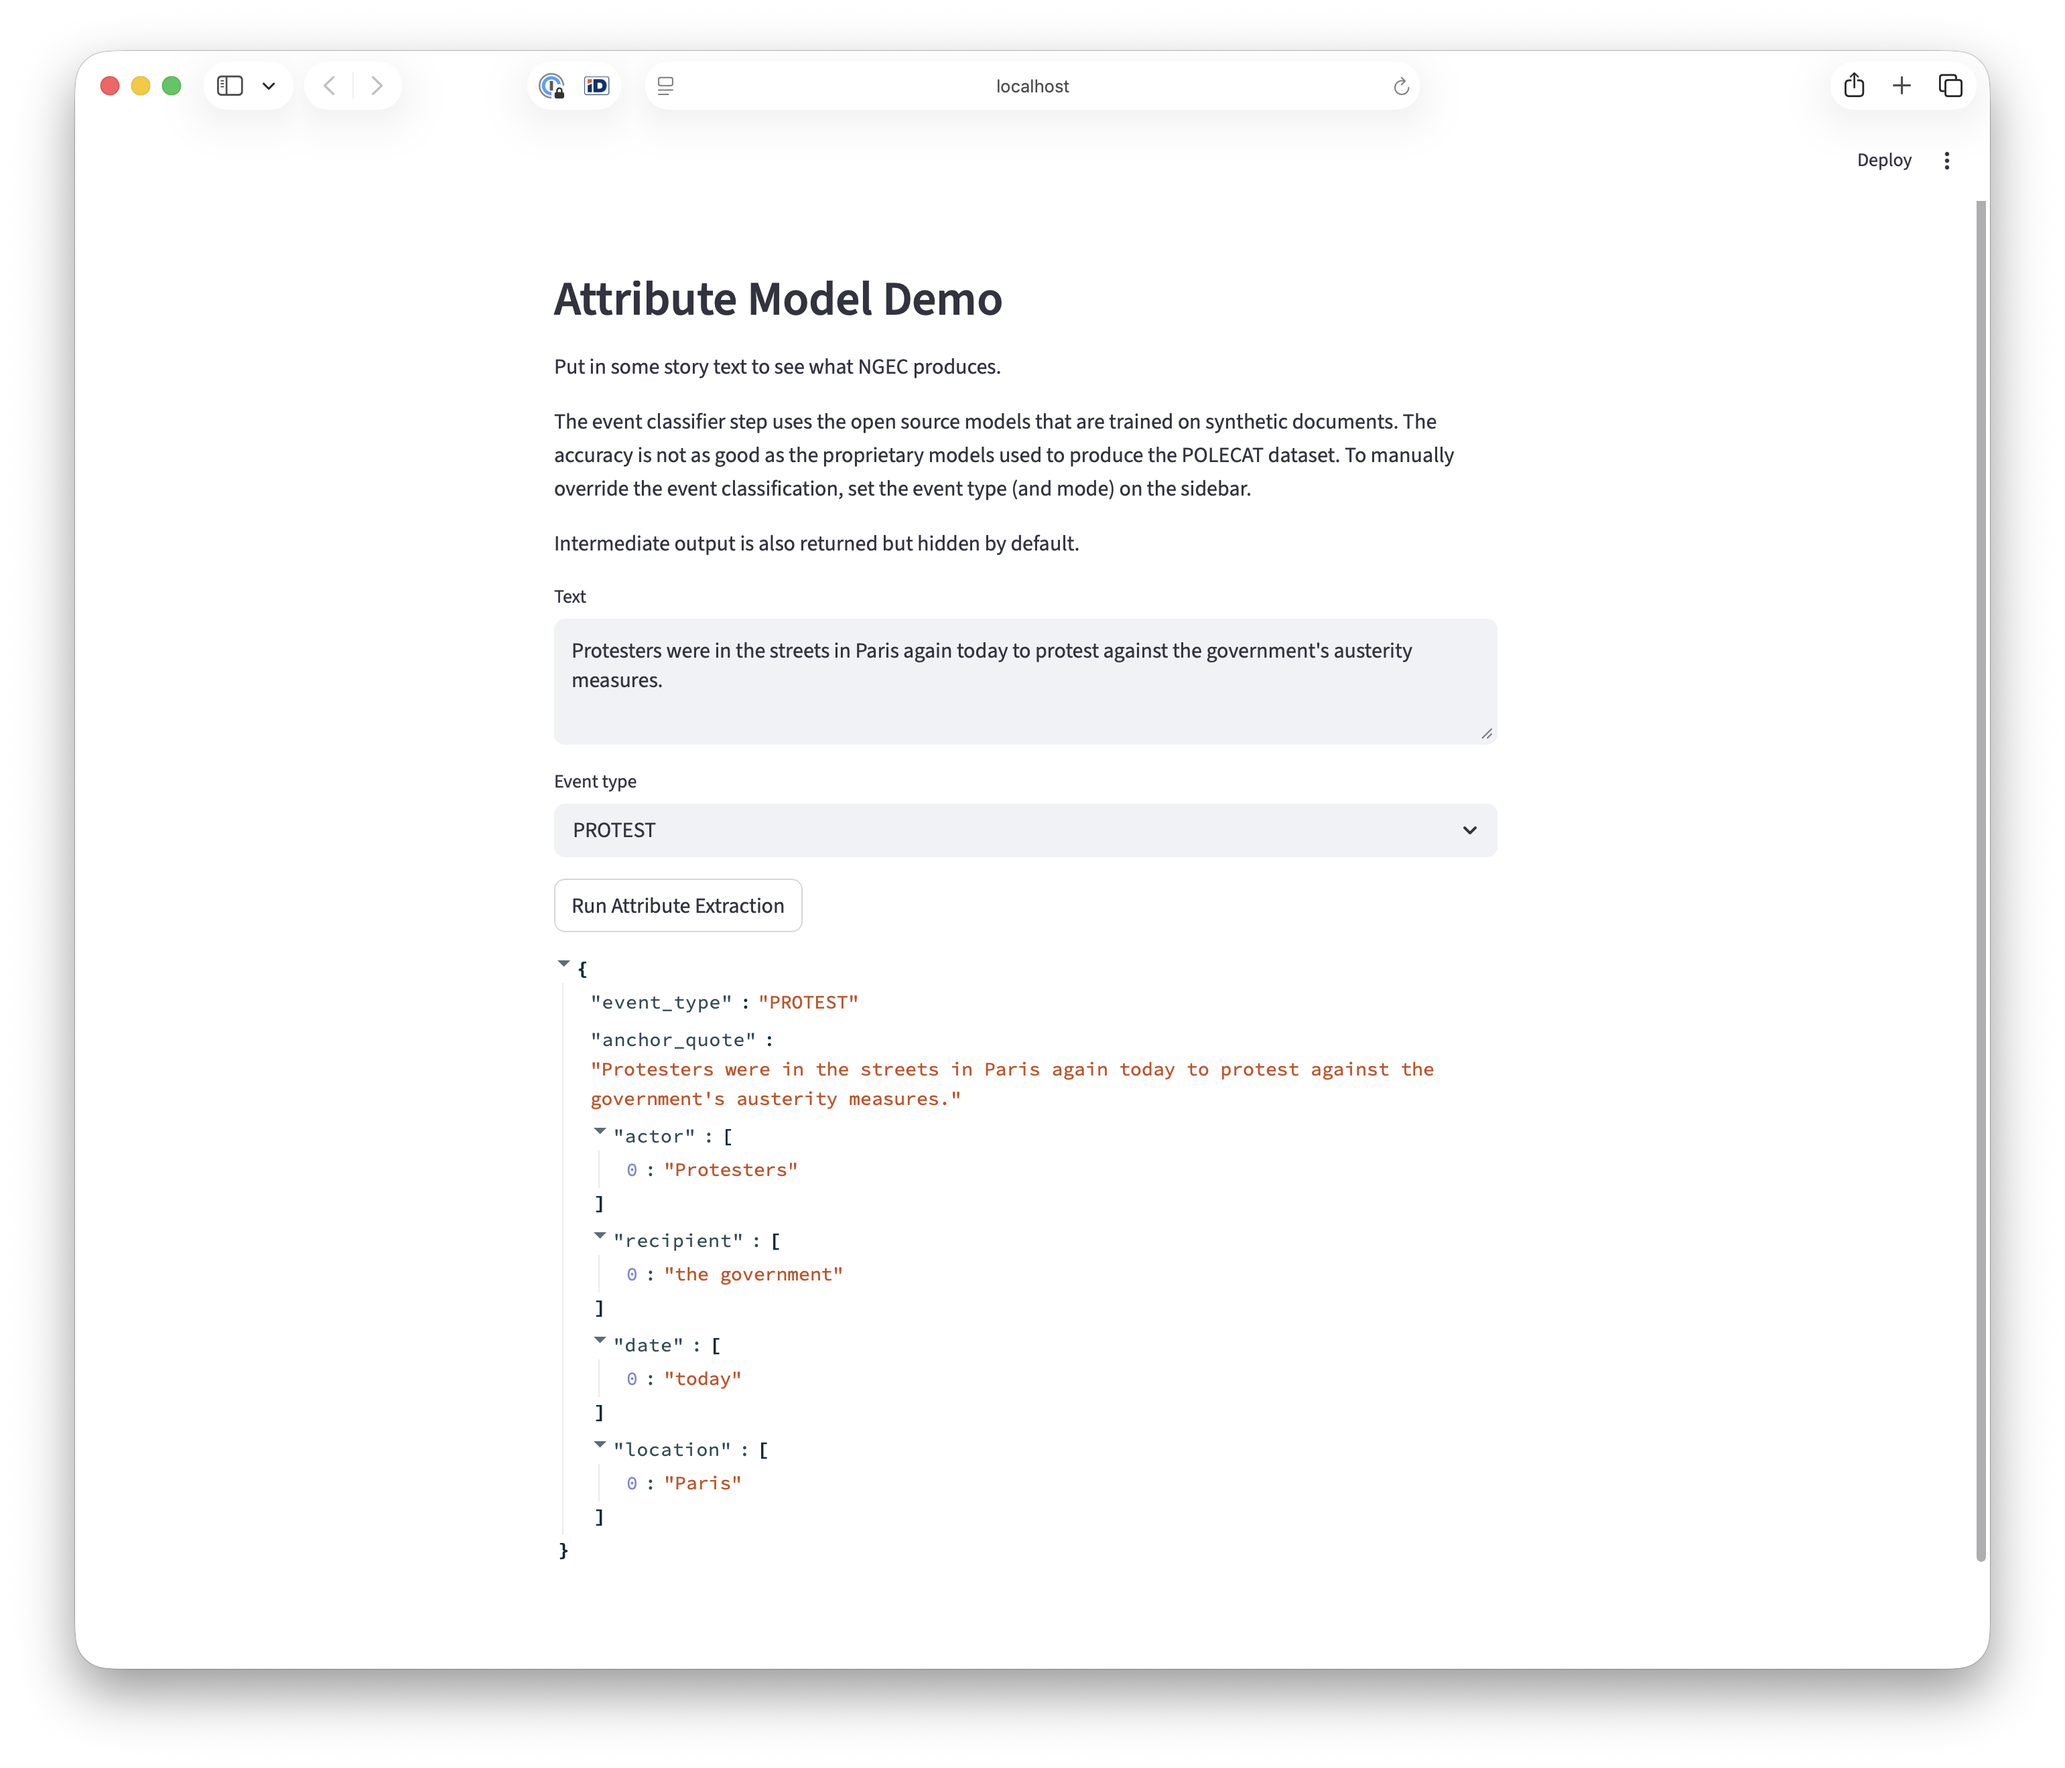
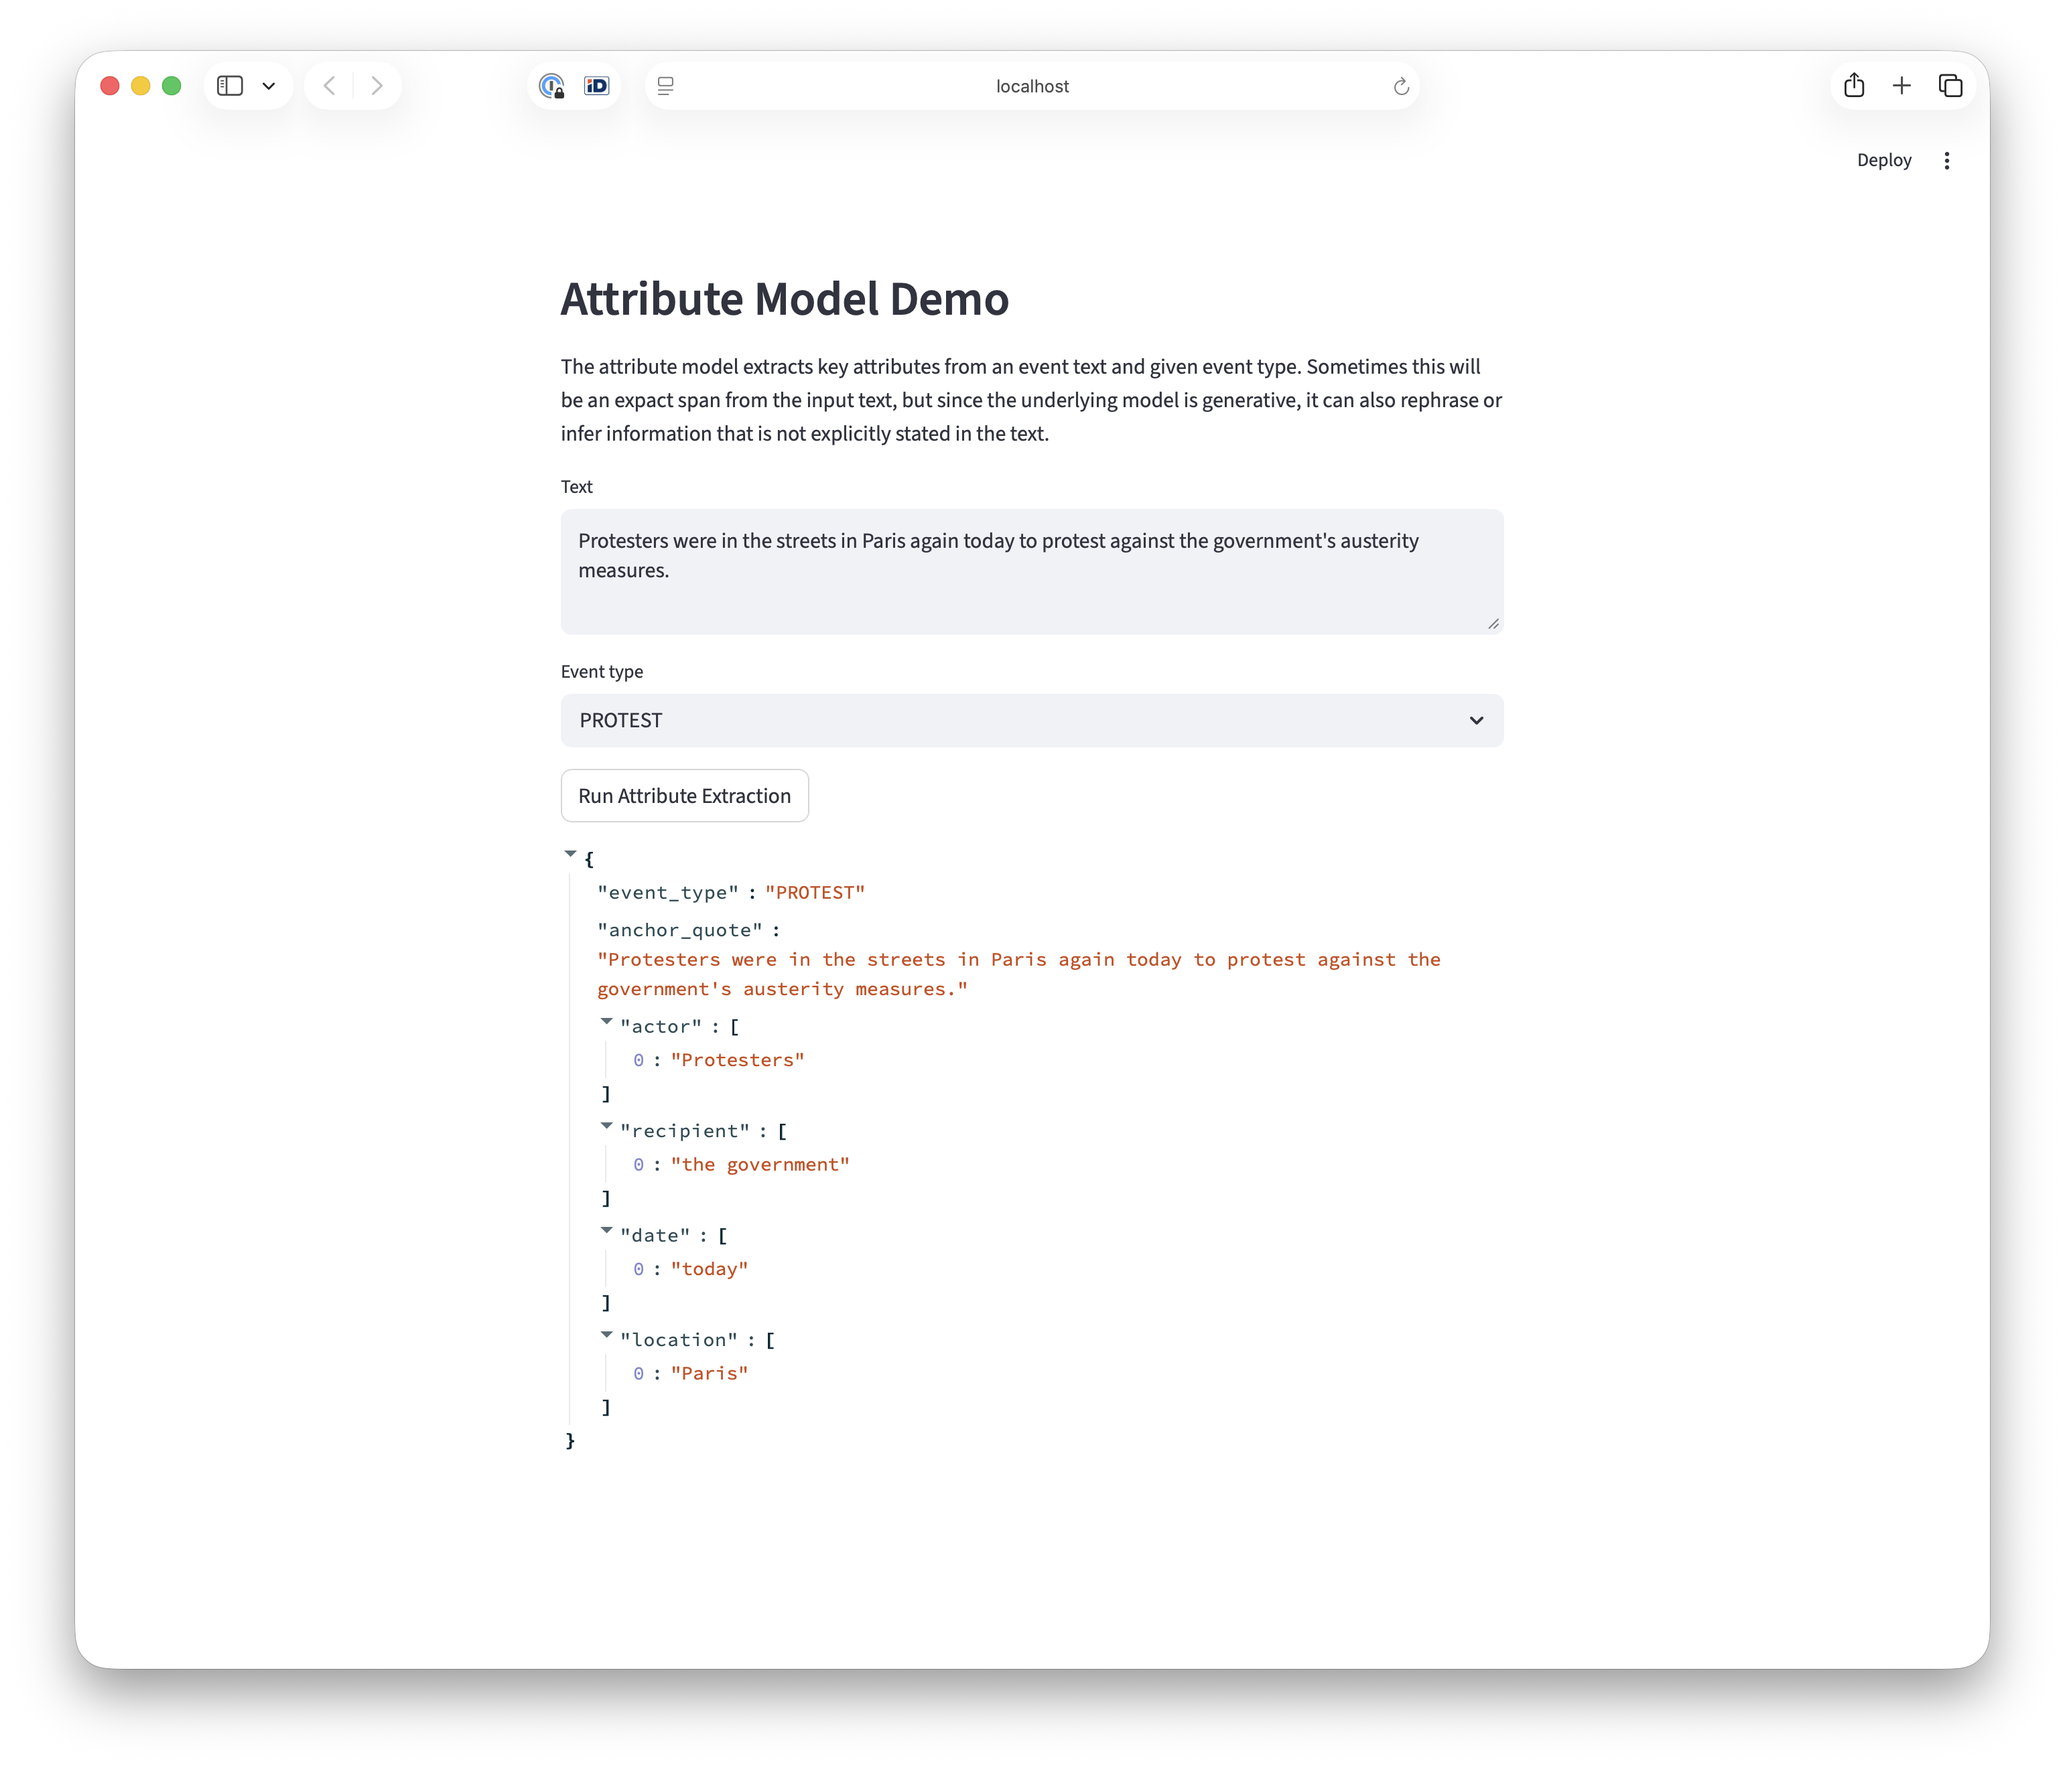
fix text for AM demo app

diff --git a/examples/attribute_model_app.py b/examples/attribute_model_app.py
@@ -47,12 +47,10 @@ am = load_attribute_model()
 
 st.markdown("## Attribute Model Demo")
 
-st.markdown("Put in some story text to see what NGEC produces.")
-st.markdown("The event classifier step uses the open source models that are trained on synthetic documents. The accuracy is not as good as the proprietary models used to produce the POLECAT dataset. To manually override the event classification, set the event type (and mode) on the sidebar.")
-st.markdown("Intermediate output is also returned but hidden by default.")
+st.markdown("The attribute model extracts key attributes from an event text and given event type. Sometimes this will be an expact span from the input text, but since the underlying model is generative, it can also rephrase or infer information that is not explicitly stated in the text.")
 
 text = st.text_area("Text", "Protesters were in the streets in Paris again today to protest against the government's austerity measures.")
-event_type = st.selectbox("Event type", PLOVER_EVENT_TYPES)
+event_type = st.selectbox("Event type", PLOVER_EVENT_TYPES, index=9)
 
 
 
